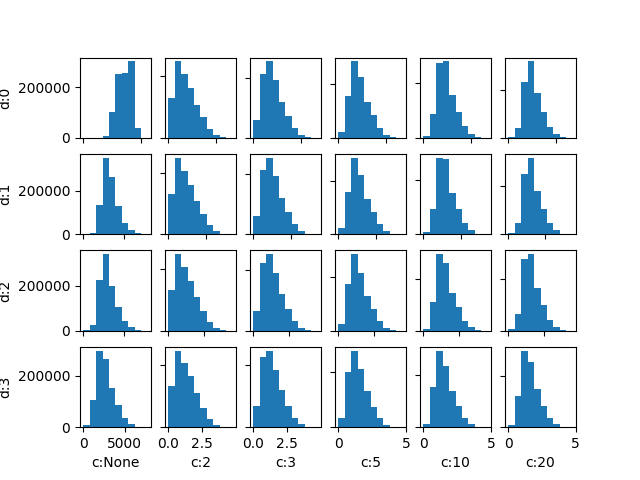
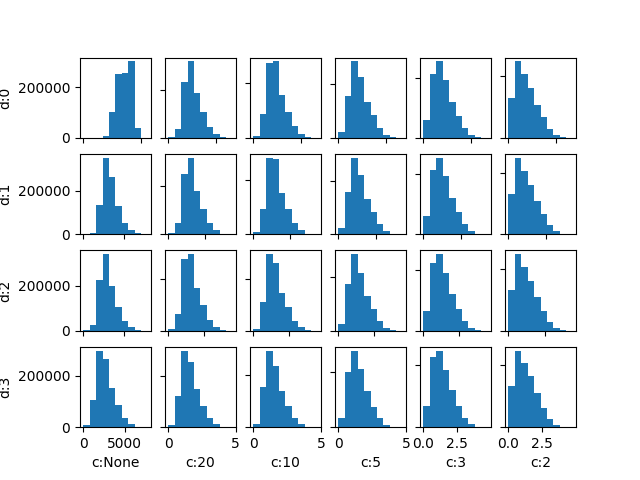
final testing

diff --git a/test/test.py b/test/test.py
@@ -6,7 +6,7 @@ def test_kmeans(X, seed=42):
     # Test NClusters
     init_dict  = {"epochs":100}
     param_name = "n_clusters"
-    param_ls   = [2,4,8,16,32,64] #[2,4,8,16,32,64,128] #[2,3,4,5,6,7,8,9,10]
+    param_ls   = [2,4,8,16,32,64,128] #[2,4,8,16,32,64,128] #[2,3,4,5,6,7,8,9,10]
     model = KMeans
     test_parameter(X, model, param_name, param_ls, init_dict,seed=seed)
 
@@ -14,7 +14,7 @@ def test_gmm(X, seed=42):
     # Test NClusters
     init_dict  = {"epochs":100}
     param_name = "n_clusters"
-    param_ls   = [2,4,8,16,32,64] #[2,3,4,5,6,7,8,9,10]
+    param_ls   = [2,4,8,16,32,64,128] #[2,3,4,5,6,7,8,9,10]
     model = GMM
     test_parameter(X, model, param_name, param_ls, init_dict,seed=seed)
 
@@ -27,14 +27,14 @@ def test_dbscan(X, seed=42):
     test_parameter(X, model, param_name, param_ls, init_dict,seed=seed)
 
 def test_all(X, seed=42):
-    test_kmeans(X, seed=seed)
     test_gmm(X, seed=seed)
+    test_kmeans(X, seed=seed)
     test_dbscan(X, seed=seed)
 
 def test_compare(X,Y, seed=42):
     models = [
-        KMeans(100,16),
-        GMM(100,16),
+        KMeans(100,32),
+        GMM(100,32),
         DBScan(1,3,"minkowski"),
     ]
     compare_models(X,Y, models, seed=seed)

diff --git a/main.py b/main.py
@@ -10,13 +10,13 @@ from test.test import test_all, test_compare
 # BEST CONFIG:
 # Depth: 1
 # PCA: 10
-# KMeans(100,16),
-# GMM(100,16),
-# DBScan(0.75,3,"minkowski"),
+# KMeans(100,32),
+# GMM(100,32),
+# DBScan(1,3,"minkowski"),
 
 # Config
 depth = 1#1
-pca_components= 10#3
+pca_components= 10#10
 
 # Set print options
 np.set_printoptions(precision = 5, floatmode="fixed", suppress = True)
@@ -36,6 +36,6 @@ print("Y Shape:",Y.shape)
 
 # Test Models
 print("Testing Models ...")
-#test_all(X,seed=42)
+test_all(X,seed=42)
 test_compare(X,Y,seed=42)
 exit()

diff --git a/models/kmeans.py b/models/kmeans.py
@@ -16,6 +16,8 @@ class KMeans(ClusteringMethod):
     self.init_centroids(X)
     grupos = None
     for e in range(self.epochs):
+        if (e%20 == 0):
+          print(f">> epoch: {e}")
         grupos = self.get_groups(X)
         new_c = self.new_centroids(X, grupos)
         #diff = np.array(self.centroids) - np.array(new_c)

diff --git a/models/gmm.py b/models/gmm.py
@@ -36,6 +36,8 @@ class GMM(ClusteringMethod):
     k = len(self.pi)
 
     for e in range(self.epochs):
+      if (e%20 == 0):
+        print(f">> epoch: {e}")
       # E-step:
       ## Calc Likelihood
       LL = np.zeros([n,k]) # (n*k)
